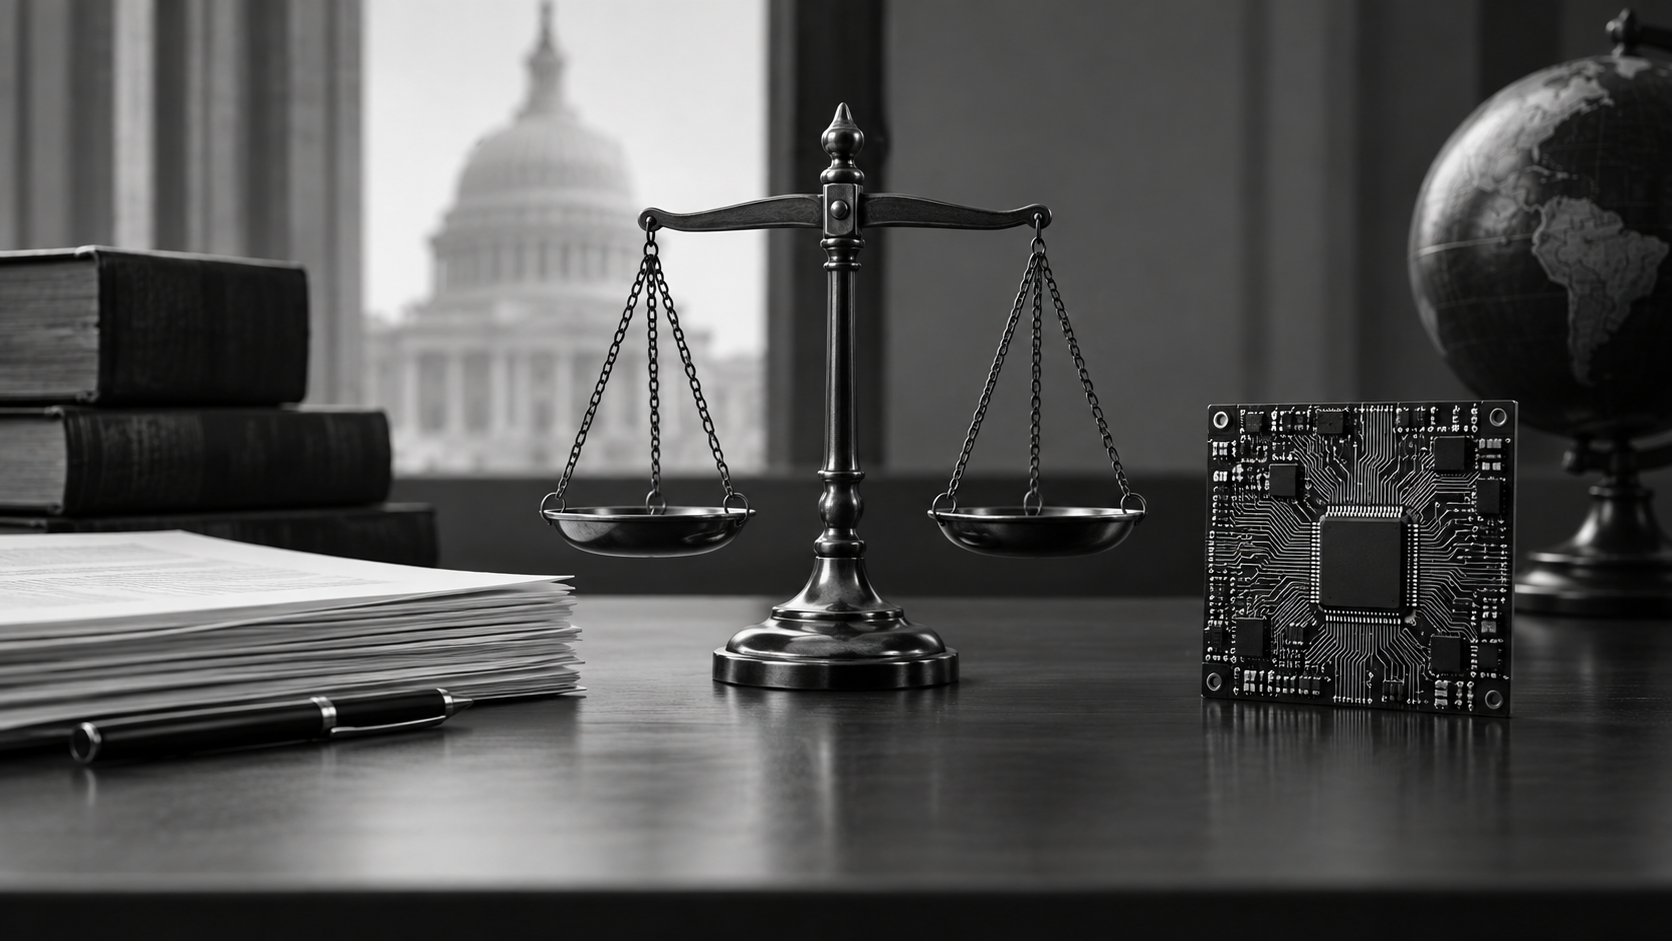
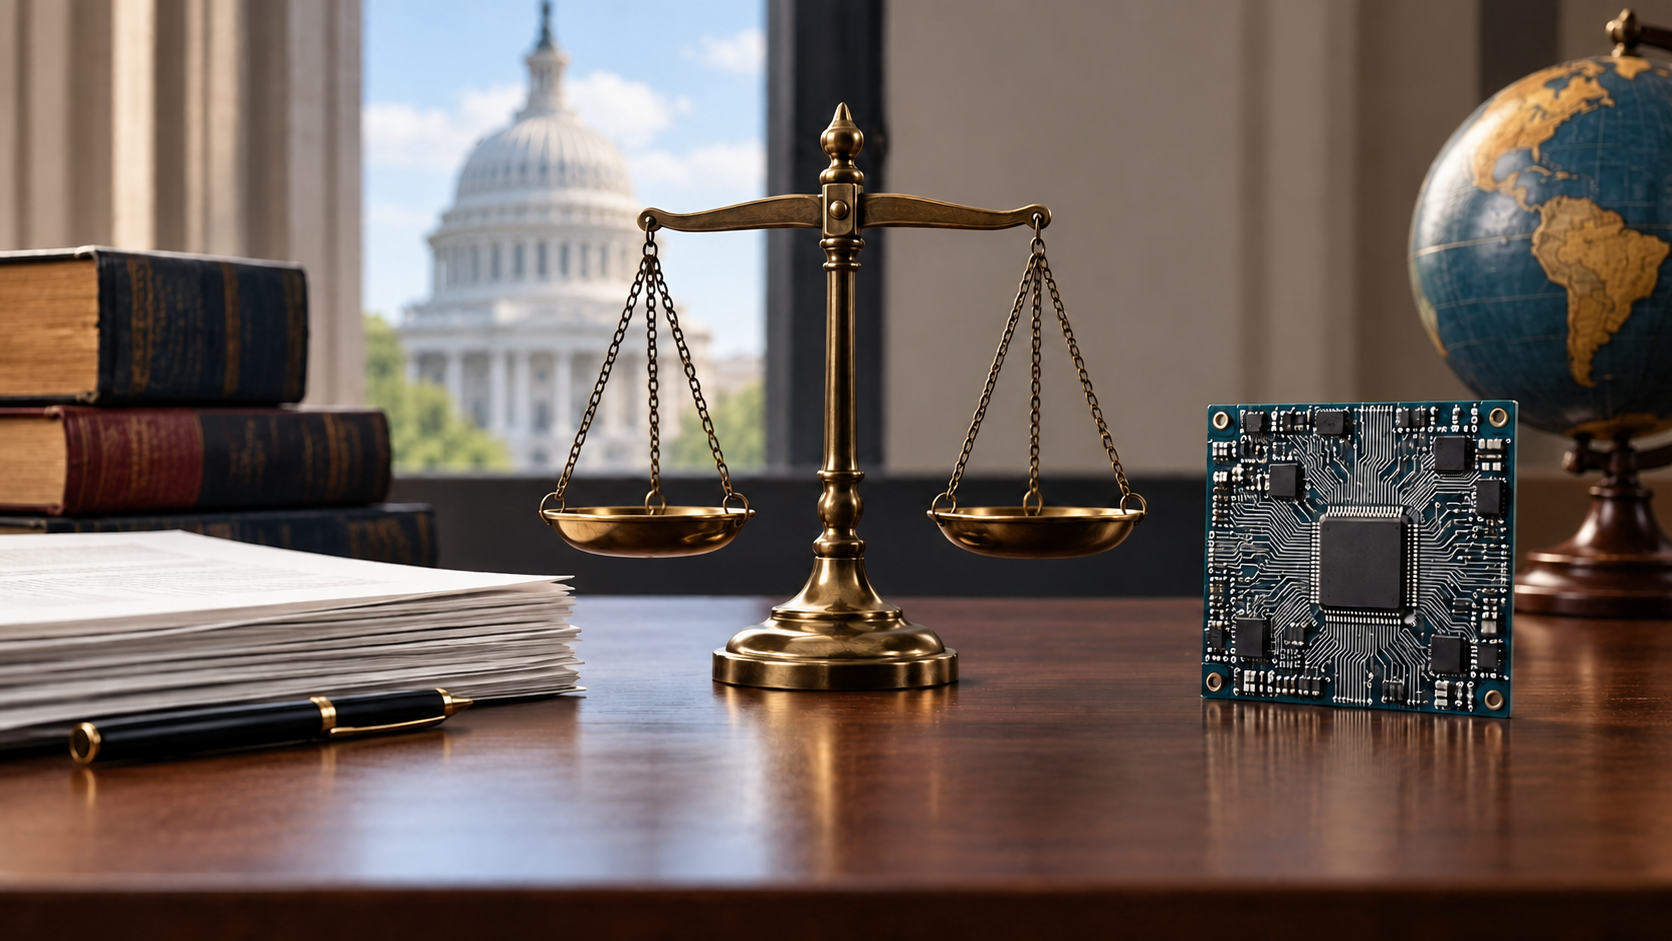
Use color news thumbnails

diff --git a/app/site-client.tsx b/app/site-client.tsx
@@ -662,7 +662,7 @@ function HomeView({
                 src={article.image}
                 alt={article.imageAlt}
                 loading="lazy"
-                className="h-full w-full object-cover grayscale transition duration-500 group-hover:scale-[1.02] group-hover:grayscale-0"
+                className="h-full w-full object-cover transition duration-500 group-hover:scale-[1.02]"
               />
             </div>
             <span className="text-sm font-semibold text-muted-foreground">
